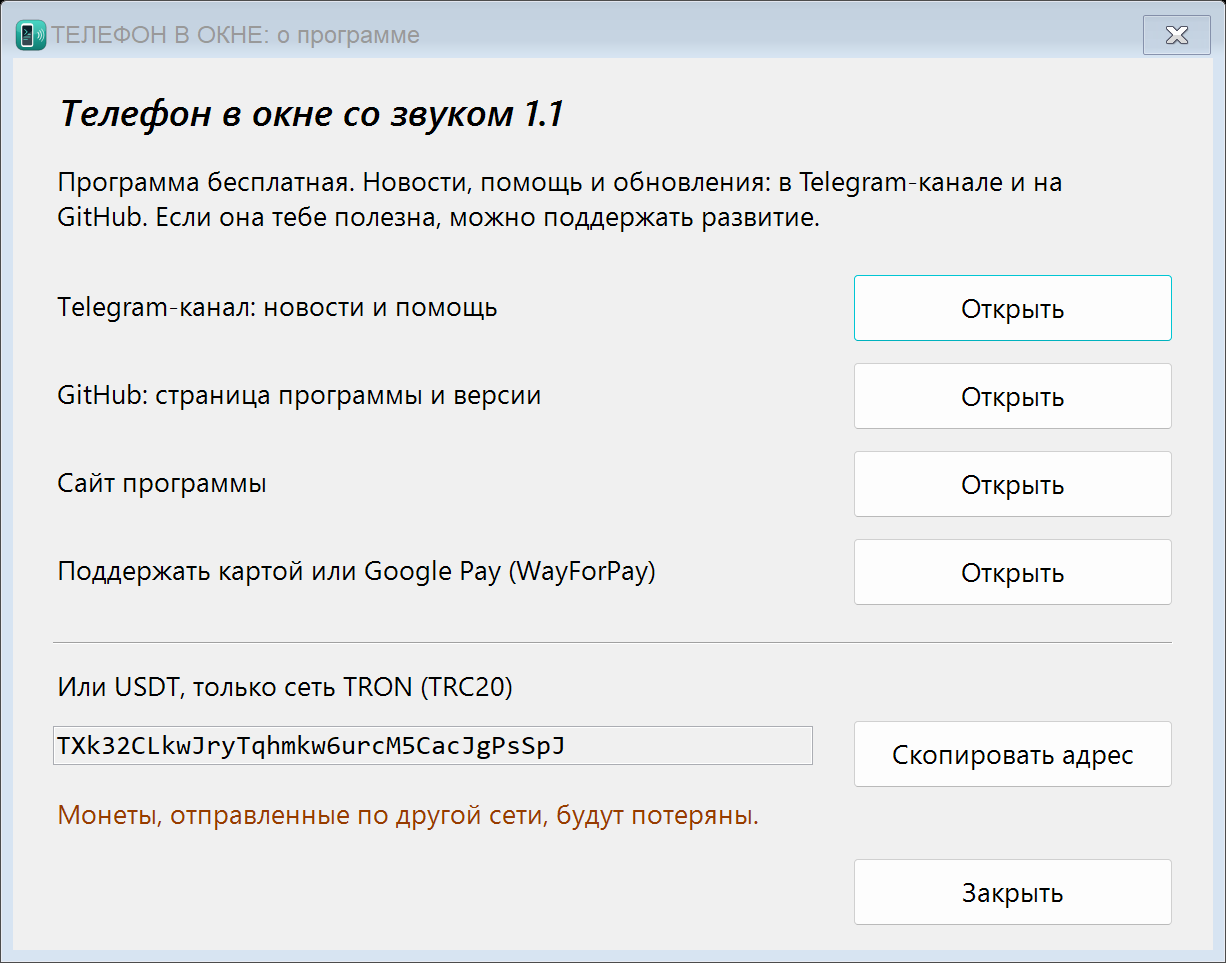
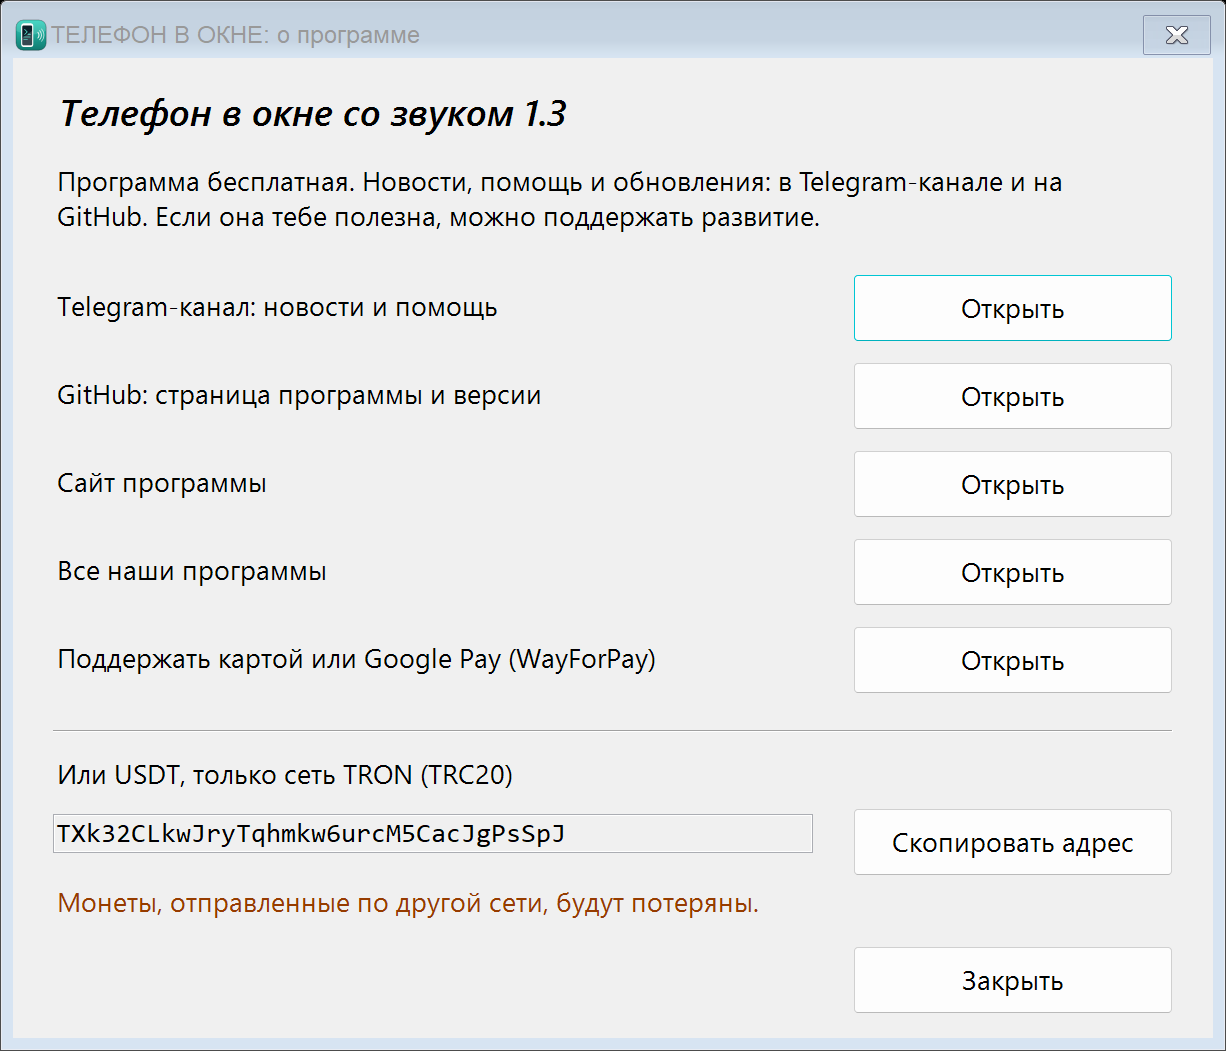
Телефон в окне со звуком 1.3: установка APKS/APKM/XAPK/ZIP, исправлено задвоение значков, тайм-аут экрана, поворот

diff --git a/docs/index.html b/docs/index.html
@@ -15,7 +15,7 @@
 <meta property="og:image:width" content="1280">
 <meta property="og:image:height" content="640">
 <meta name="twitter:card" content="summary_large_image">
-<script type="application/ld+json">{"@context":"https://schema.org","@type":"SoftwareApplication","name":"Phone in Window with Sound","alternateName":["Телефон в окне со звуком","Телефон у вікні зі звуком"],"operatingSystem":"Windows 10, Windows 11","applicationCategory":"UtilitiesApplication","softwareVersion":"1.2","offers":{"@type":"Offer","price":"0","priceCurrency":"USD"},"downloadUrl":"https://github.com/drugoj00/phone-in-window-with-sound/releases/latest","url":"https://drugoj00.github.io/phone-in-window-with-sound/","image":"https://drugoj00.github.io/phone-in-window-with-sound/social.png?v=11","description":"Android phone screen in a Windows window, with sound, mouse and keyboard. Free, built on scrcpy."}</script>
+<script type="application/ld+json">{"@context":"https://schema.org","@type":"SoftwareApplication","name":"Phone in Window with Sound","alternateName":["Телефон в окне со звуком","Телефон у вікні зі звуком"],"operatingSystem":"Windows 10, Windows 11","applicationCategory":"UtilitiesApplication","softwareVersion":"1.3","offers":{"@type":"Offer","price":"0","priceCurrency":"USD"},"downloadUrl":"https://github.com/drugoj00/phone-in-window-with-sound/releases/latest","url":"https://drugoj00.github.io/phone-in-window-with-sound/","image":"https://drugoj00.github.io/phone-in-window-with-sound/social.png?v=11","description":"Android phone screen in a Windows window, with sound, mouse and keyboard. Free, built on scrcpy."}</script>
 <link rel="icon" href="icon.png">
 <style>
 :root{
@@ -90,8 +90,8 @@ button#copy{background:var(--accent);color:var(--accent-ink);border:0;border-rad
       <a class="btn ghost" href="https://github.com/drugoj00/phone-in-window-with-sound" data-i="gh">View on GitHub</a>
       <a class="btn ghost" href="https://t.me/PhoneInWindowSound" data-i="tg">Telegram: news and help</a>
     </div>
-    <p class="small" data-i="dlnote">Current version: 1.2. PhoneInWindowWithSound-1.2.exe. Free. No internet needed, administrator rights are optional. Windows 10 and 11.</p>
-    <p class="small" data-i="newnote">New in 1.2: a serious phone-rotation bug is fixed. The program now checks that the phone’s rotation settings are really restored after use and removes a leftover “ignore app orientation” mode.</p>
+    <p class="small" data-i="dlnote">Current version: 1.3. PhoneInWindowWithSound-1.3.exe. Free. No internet needed, administrator rights are optional. Windows 10 and 11.</p>
+    <p class="small" data-i="newnote">New in 1.3: install apps from APK, APKS, APKM, XAPK and ZIP (also by dropping a file onto the window); a Shizuku start button; fixed a second icon on Samsung phones and the screen timeout being overwritten.</p>
   </div>
 </header>
 
@@ -200,8 +200,8 @@ var I18N = {
     h1: "Your Android phone in a Windows window, with sound",
     lead: "See the real phone screen on your PC, click with the mouse, type on the keyboard and listen to the phone through the computer. Apps keep running on the phone, so banking apps and messengers behave as usual.",
     dl: "Download for Windows", gh: "View on GitHub", tg: "Telegram: news and help",
-    dlnote: "Current version: 1.2. PhoneInWindowWithSound-1.2.exe. Free. No internet needed, administrator rights are optional. Windows 10 and 11.",
-    newnote: "New in 1.2: a serious phone-rotation bug is fixed. The program now checks that the phone’s rotation settings are really restored after use and removes a leftover “ignore app orientation” mode.",
+    dlnote: "Current version: 1.3. PhoneInWindowWithSound-1.3.exe. Free. No internet needed, administrator rights are optional. Windows 10 and 11.",
+    newnote: "New in 1.3: install apps from APK, APKS, APKM, XAPK and ZIP (also by dropping a file onto the window); a Shizuku start button; fixed a second icon on Samsung phones and the screen timeout being overwritten.",
     f_h: "What it does", s_h: "How it looks",
     s_c0: "The one desktop shortcut opens this window: choose a cable, Wi-Fi, Android 11+ or all phones; the list of phones opens beside the window. The tray icon, language, theme (auto, light, dark) and start with Windows are here too.",
     s_c1: "The installer: everything is inside, one click to install.",
@@ -257,8 +257,8 @@ var I18N = {
     h1: "Твій Android-телефон у вікні Windows, зі звуком",
     lead: "Справжній екран телефона на комп'ютері: клацай мишею, друкуй з клавіатури й слухай звук телефона через комп'ютер. Застосунки працюють на самому телефоні, тому банківські застосунки й месенджери поводяться як зазвичай.",
     dl: "Завантажити для Windows", gh: "Сторінка на GitHub", tg: "Telegram: новини й допомога",
-    dlnote: "Поточна версія: 1.2. PhoneInWindowWithSound-1.2.exe. Безкоштовно. Інтернет і права адміністратора не обов’язкові. Windows 10 і 11.",
-    newnote: "Нове в 1.2: виправлено серйозну помилку з поворотом екрана телефона. Програма тепер перевіряє, що налаштування повороту після роботи справді повернулися, і знімає залишок режиму «ігнорувати орієнтацію застосунків».",
+    dlnote: "Поточна версія: 1.3. PhoneInWindowWithSound-1.3.exe. Безкоштовно. Інтернет і права адміністратора не обов’язкові. Windows 10 і 11.",
+    newnote: "Нове в 1.3: встановлення застосунків з APK, APKS, APKM, XAPK і ZIP (і перетягуванням файлу у вікно); кнопка запуску Shizuku; виправлено другу іконку на Samsung і затирання тайм-ауту екрана.",
     f_h: "Що вміє", s_h: "Як це виглядає",
     s_c0: "Єдиний ярлик на робочому столі відкриває це вікно: кабель, Wi-Fi, Android 11+ або всі телефони; список телефонів розкривається збоку вікна. Тут же значок у треї, мова, тема (авто, світла, темна) і запуск разом з Windows.",
     s_c1: "Інсталятор: усе вже всередині, встановлення одним натисканням.",
@@ -314,8 +314,8 @@ var I18N = {
     h1: "Твой Android-телефон в окне Windows, со звуком",
     lead: "Настоящий экран телефона на компьютере: щёлкай мышью, печатай с клавиатуры и слушай звук телефона через компьютер. Приложения работают на самом телефоне, поэтому банковские приложения и мессенджеры ведут себя как обычно.",
     dl: "Скачать для Windows", gh: "Страница на GitHub", tg: "Telegram: новости и помощь",
-    dlnote: "Текущая версия: 1.2. PhoneInWindowWithSound-1.2.exe. Бесплатно. Интернет и права администратора не обязательны. Windows 10 и 11.",
-    newnote: "Новое в 1.2: исправлена серьёзная ошибка с поворотом экрана телефона. Программа теперь проверяет, что настройки поворота после работы действительно вернулись, и снимает остаток режима «игнорировать ориентацию приложений».",
+    dlnote: "Текущая версия: 1.3. PhoneInWindowWithSound-1.3.exe. Бесплатно. Интернет и права администратора не обязательны. Windows 10 и 11.",
+    newnote: "Новое в 1.3: установка приложений из APK, APKS, APKM, XAPK и ZIP (в том числе перетаскиванием файла в окно); кнопка запуска Shizuku; исправлены второй значок на Samsung и затирание тайм-аута экрана.",
     f_h: "Что умеет", s_h: "Как это выглядит",
     s_c0: "Единственный ярлык на рабочем столе открывает это окно: кабель, Wi-Fi, Android 11+ или все телефоны; список телефонов раскрывается сбоку окна. Здесь же значок в трее, язык, тема (авто, светлая, тёмная) и запуск вместе с Windows.",
     s_c1: "Установщик: всё уже внутри, установка одним нажатием.",
